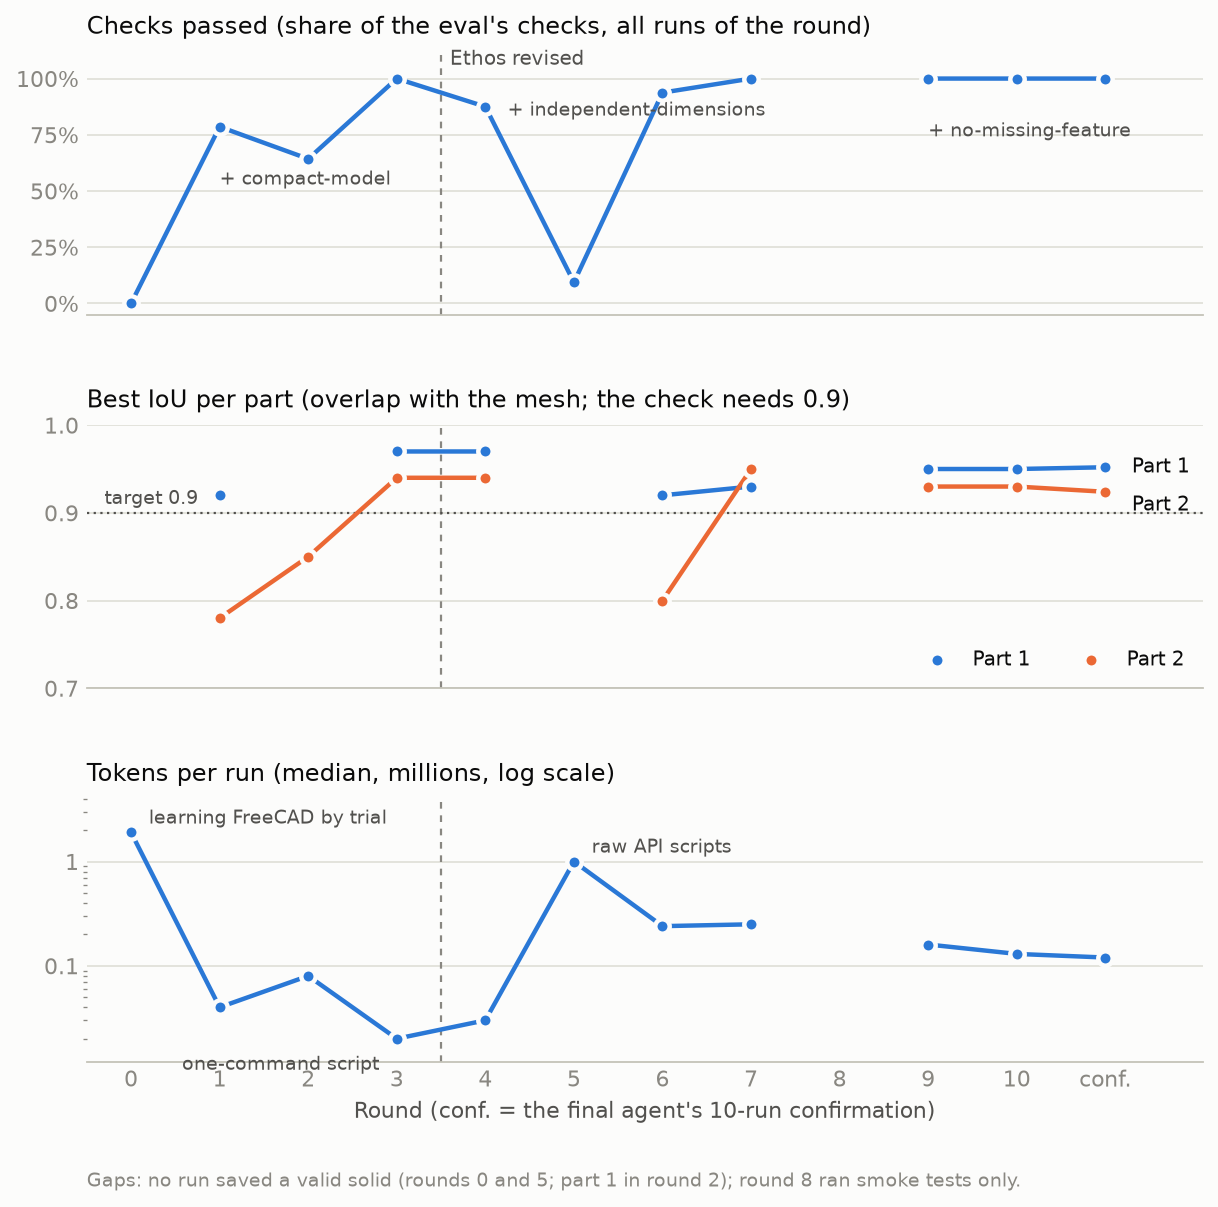
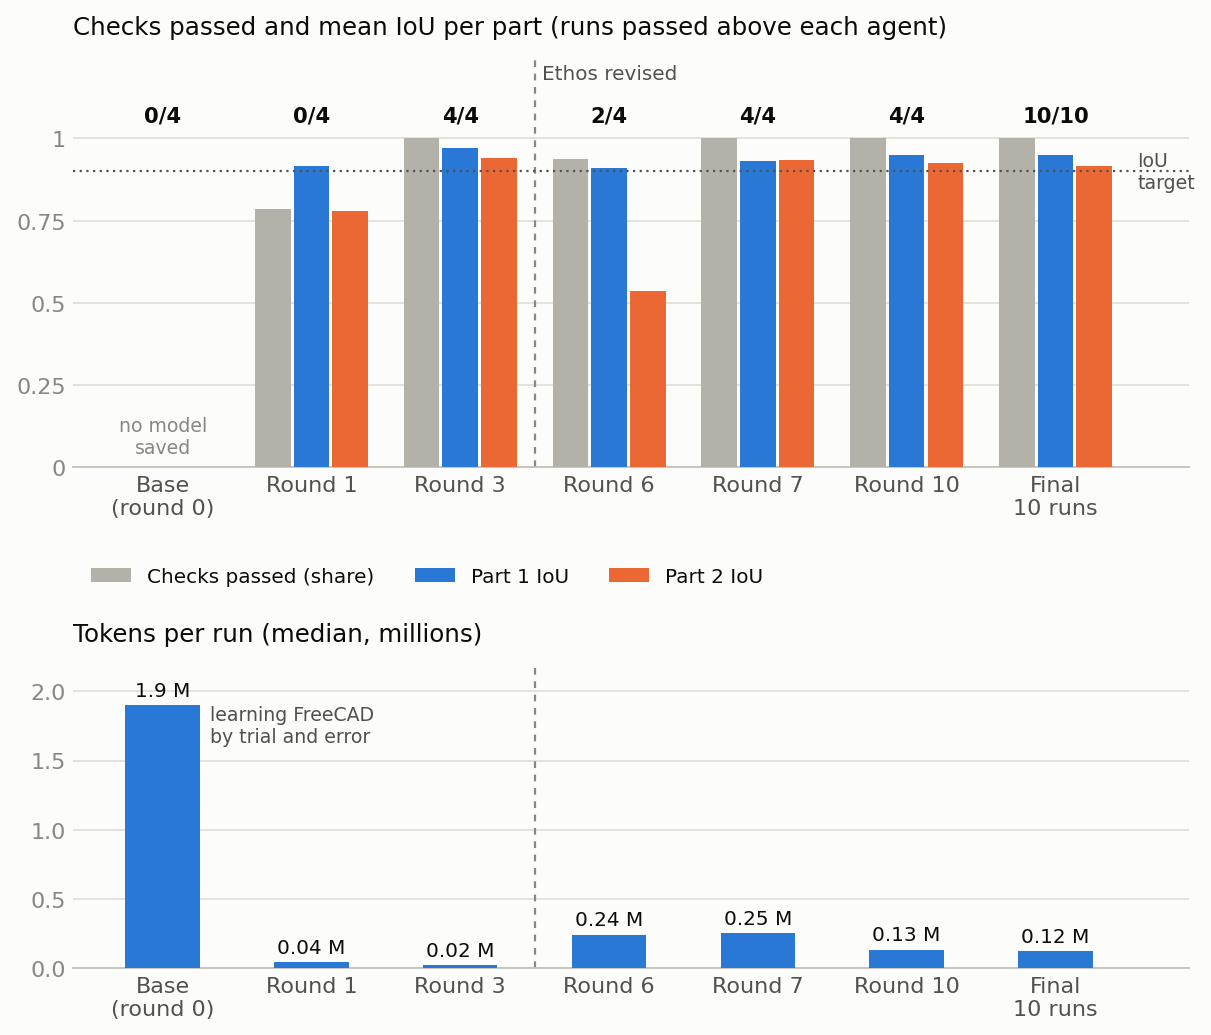
docs(tools): CAE FreeCAD results as bar charts of the kept agents

diff --git a/examples/tools/cae-freecad-agent-harness-optimization/results/rounds_chart.py b/examples/tools/cae-freecad-agent-harness-optimization/results/rounds_chart.py
@@ -1,6 +1,7 @@
 # SPDX-FileCopyrightText: Copyright (c) 2026 NVIDIA CORPORATION & AFFILIATES. All rights reserved.
 # SPDX-License-Identifier: Apache-2.0
-"""Draw assets/results-rounds.png: checks passed, best IoU per part and tokens per run, by round.
+"""Draw assets/results-rounds.png: for the base agent and each kept agent, the share of checks
+passed and the mean IoU per part, then the tokens per run.
 
     uv run --with matplotlib python results/rounds_chart.py assets/results-rounds.png
 """
@@ -12,82 +13,63 @@ import matplotlib.pyplot as plt
 from matplotlib.ticker import FuncFormatter
 
 SURFACE, INK, INK2, MUTED, GRID, AXIS = '#fcfcfb', '#0b0b0b', '#52514e', '#898781', '#e1e0d9', '#c3c2b7'
-BLUE, ORANGE = '#2a78d6', '#eb6834'
+BLUE, ORANGE, GREY = '#2a78d6', '#eb6834', '#b4b2a8'
 
-labels = ['0', '1', '2', '3', '4', '5', '6', '7', '8', '9', '10', 'conf.']
-x = list(range(len(labels)))
-# Share of the eval's checks passed over the round's runs (the eval had 7, then 8, then 9 checks);
-# round 8 ran smoke tests only.
-checks = [0, 22/28, 18/28, 1, 28/32, 3/32, 30/32, 1, None, 1, 1, 1]
-# Best run per part; None where no run saved a valid solid.
-iou1 = [None, .92, None, .97, .97, None, .92, .93, None, .95, .95, .952]
-iou2 = [None, .78, .85, .94, .94, None, .80, .95, None, .93, .93, .924]
-tokens = [1.9, .04, .08, .02, .03, 1.0, .24, .25, None, .16, .13, .12]  # median M tokens per run
+# The base agent, each kept agent (by the round that kept it) and the final agent's 10-run
+# confirmation, from the round table in README.md.
+labels = ['Base\n(round 0)', 'Round 1', 'Round 3', 'Round 6', 'Round 7', 'Round 10', 'Final\n10 runs']
+passed = ['0/4', '0/4', '4/4', '2/4', '4/4', '4/4', '10/10']
+# Checks passed over the agent's runs, out of the checks the eval had at the time.
+checks = [0 / 28, 22 / 28, 28 / 28, 30 / 32, 32 / 32, 36 / 36, 90 / 90]
+# Mean IoU per part over the runs; 0 where no run saved a valid solid.
+iou1 = [0, .915, .97, .91, .93, .95, .950]
+iou2 = [0, .78, .94, .535, .935, .925, .915]
+tokens = [1.9, .04, .02, .24, .25, .13, .12]  # median M tokens per run
+x = range(len(labels))
 
 plt.rcParams.update({'font.family': 'DejaVu Sans', 'font.size': 10, 'text.color': INK,
-                     'axes.labelcolor': INK2, 'xtick.color': MUTED, 'ytick.color': MUTED})
-fig, axes = plt.subplots(3, 1, figsize=(9, 8.2), sharex=True, facecolor=SURFACE,
-                         gridspec_kw={'hspace': 0.42})
+                     'axes.labelcolor': INK2, 'xtick.color': INK2, 'ytick.color': MUTED})
+fig, (top, bottom) = plt.subplots(2, 1, figsize=(9, 7.4), facecolor=SURFACE,
+                                  gridspec_kw={'hspace': 0.55, 'height_ratios': [1.35, 1]})
 
 
 def style(ax, title):
     ax.set_facecolor(SURFACE)
-    ax.set_title(title, loc='left', fontsize=11, color=INK, pad=8)
+    ax.set_title(title, loc='left', fontsize=11, color=INK, pad=10)
     for side in ('top', 'right', 'left'):
         ax.spines[side].set_visible(False)
     ax.spines['bottom'].set_color(AXIS)
     ax.grid(axis='y', color=GRID, linewidth=0.8)
     ax.set_axisbelow(True)
     ax.tick_params(length=0)
-    # The Ethos revision, between rounds 3 and 4.
-    ax.axvline(3.5, color=MUTED, linewidth=1, linestyle=(0, (3, 3)))
+    ax.set_xticks(list(x), labels)
+    ax.set_xlim(-0.6, 6.9)
+    # The Ethos revision, between rounds 3 and 6: the round-3 agent falls to 0/10.
+    ax.axvline(2.5, color=MUTED, linewidth=1, linestyle=(0, (3, 3)))
 
 
-def line(ax, ys, color, label=None):
-    pts = [(i, y) for i, y in zip(x, ys) if y is not None]
-    # Break the line where a round has no value, rather than bridging the gap.
-    ax.plot(x, [float('nan') if y is None else y for y in ys], color=color, linewidth=2, zorder=3)
-    ax.scatter([p[0] for p in pts], [p[1] for p in pts], s=42, color=color, zorder=4,
-               edgecolors=SURFACE, linewidths=2, label=label)
+w = 0.26
+style(top, 'Checks passed and mean IoU per part (runs passed above each agent)')
+for dx, ys, color, name in ((-w, checks, GREY, 'Checks passed (share)'), (0, iou1, BLUE, 'Part 1 IoU'),
+                            (w, iou2, ORANGE, 'Part 2 IoU')):
+    top.bar([i + dx for i in x], ys, w * 0.92, color=color, label=name, zorder=3)
+top.axhline(0.9, color=INK2, linewidth=1, linestyle=(0, (1, 2)), zorder=4)
+top.text(6.55, 0.9, 'IoU\ntarget', color=INK2, fontsize=8.5, va='center', ha='left')
+for i, p in zip(x, passed):
+    top.text(i, 1.04, p, ha='center', va='bottom', color=INK, fontsize=9.5, fontweight='bold')
+top.text(2.55, 1.17, 'Ethos revised', color=INK2, fontsize=9, va='bottom')
+top.text(0, 0.03, 'no model\nsaved', ha='center', va='bottom', color=MUTED, fontsize=8.5)
+top.set_ylim(0, 1.25)
+top.set_yticks([0, .25, .5, .75, 1])
+top.yaxis.set_major_formatter(FuncFormatter(lambda v, _: f'{v:g}'))
+top.legend(loc='upper left', bbox_to_anchor=(0, -0.2), ncol=3, frameon=False, fontsize=9,
+           labelcolor=INK)
 
+style(bottom, 'Tokens per run (median, millions)')
+bottom.bar(list(x), tokens, 0.5, color=BLUE, zorder=3)
+for i, t in zip(x, tokens):
+    bottom.text(i, t + 0.04, f'{t:g} M', ha='center', va='bottom', color=INK, fontsize=9)
+bottom.text(0.32, 1.9, 'learning FreeCAD\nby trial and error', color=INK2, fontsize=8.5, va='top')
+bottom.set_ylim(0, 2.2)
 
-ax = axes[0]
-style(ax, 'Checks passed (share of the eval\'s checks, all runs of the round)')
-line(ax, checks, BLUE)
-ax.set_ylim(-0.05, 1.12)
-ax.yaxis.set_major_formatter(FuncFormatter(lambda v, _: f'{v:.0%}'))
-ax.text(3.6, 1.04, 'Ethos revised', color=INK2, fontsize=9, va='bottom')
-for xi, txt in ((1, '+ compact-model'), (3.5, ''), (9, '+ no-missing-feature')):
-    if txt:
-        ax.annotate(txt, (xi, checks[int(xi)]), xytext=(0, -26), textcoords='offset points',
-                    ha='left', color=INK2, fontsize=8.5)
-ax.annotate('+ independent-dimensions', (4, checks[4]), xytext=(10, -4), textcoords='offset points',
-            ha='left', color=INK2, fontsize=8.5)
-
-ax = axes[1]
-style(ax, 'Best IoU per part (overlap with the mesh; the check needs 0.9)')
-ax.axhline(0.9, color=INK2, linewidth=1, linestyle=(0, (1, 2)))
-ax.text(-0.3, 0.905, 'target 0.9', color=INK2, fontsize=8.5, va='bottom')
-line(ax, iou1, BLUE, 'Part 1')
-line(ax, iou2, ORANGE, 'Part 2')
-ax.set_ylim(0.7, 1.0)
-ax.text(11.3, iou1[-1], 'Part 1', color=INK, fontsize=9, va='center')
-ax.text(11.3, iou2[-1] - 0.004, 'Part 2', color=INK, fontsize=9, va='top')
-ax.legend(loc='lower right', frameon=False, fontsize=9, bbox_to_anchor=(1.0, 0.0), ncol=2,
-          labelcolor=INK)
-
-ax = axes[2]
-style(ax, 'Tokens per run (median, millions, log scale)')
-line(ax, tokens, BLUE)
-ax.set_yscale('log')
-ax.set_ylim(0.012, 4)
-ax.yaxis.set_major_formatter(FuncFormatter(lambda v, _: f'{v:g}'))
-ax.set_xticks(x, labels)
-ax.set_xlim(-0.5, 12.1)
-ax.set_xlabel('Round (conf. = the final agent\'s 10-run confirmation)', color=INK2)
-for i, t in ((0, 'learning FreeCAD by trial'), (5, 'raw API scripts'), (3, 'one-command script')):
-    ax.annotate(t, (i, tokens[i]), xytext=(-8, -14) if i == 3 else (8, 4), ha='right' if i == 3 else 'left', textcoords='offset points', color=INK2, fontsize=8.5)
-
-fig.text(0.125, 0.015, 'Gaps: no run saved a valid solid (rounds 0 and 5; part 1 in round 2); round 8 ran smoke tests only.',
-         color=MUTED, fontsize=8.5)
 fig.savefig(sys.argv[1], dpi=160, facecolor=SURFACE, bbox_inches='tight')

diff --git a/examples/tools/cae-freecad-agent-harness-optimization/README.md b/examples/tools/cae-freecad-agent-harness-optimization/README.md
@@ -146,7 +146,7 @@ point; a precise one, with clear intent, success criteria and things not to do, 
 Compass something to judge traces against and gives Eval Author something to turn into
 checks. Each check closes one way to pass while getting worse, so the more distinct
 behaviours the checks cover, the more a passing score means. In this example Eval Author
-grew the eval from five checks to nine, each from evidence in the traces, and each new
+grew the eval from six checks to nine, each from evidence in the traces, and each new
 check changed which agent the loop kept.
 
 **Why the eval is the hard part.** As the
@@ -228,7 +228,11 @@ same agent fell to 0 of 10. **Last**, four more rounds produced an agent that mo
 part itself; rendering the models showed artefacts no check measured, and fixing those
 exposed one more gap in the eval, closed with one more check.
 
-![Checks passed, best IoU per part and tokens per run, by round](assets/results-rounds.png)
+![The base agent and each kept agent: checks passed, mean IoU per part, runs passed, and tokens per run](assets/results-rounds.png)
+
+The charts show the base agent and each agent the loop kept, then the final agent's
+10-run confirmation. Checks are the share passed over the agent's runs, out of the checks
+the eval had at the time, so the round-3 agent's full marks were before the Ethos revision.
 
 Each round ran both parts twice, all runs in parallel, 5 minutes per run. *Surface changed*
 is what the experimenter edited in the agent folder (system prompt, skills and their

diff --git a/examples/tools/cae-freecad-agent-harness-optimization/results/README.md b/examples/tools/cae-freecad-agent-harness-optimization/results/README.md
@@ -11,11 +11,11 @@ eval caught each Insight, and a fresh experimenter
 candidate was kept only if it passed more runs than the agent under study (or as many runs
 and more checks), with no part and no check worse.
 
-![Checks passed, best IoU per part and tokens per run, by round](../assets/results-rounds.png)
+![The base agent and each kept agent: checks passed, mean IoU per part, runs passed, and tokens per run](../assets/results-rounds.png)
 
 Every Compass Insight, the check that caught it and the round that fixed it:
 [insights/](insights/README.md). The final agent: [final-agent/](final-agent/), described
-in the [README](../README.md#what-the-loop-built). The chart is drawn by
+in the [README](../README.md#what-the-loop-built). The charts are drawn by
 [rounds_chart.py](rounds_chart.py).
 
 ## Chapter 1: the original Ethos
